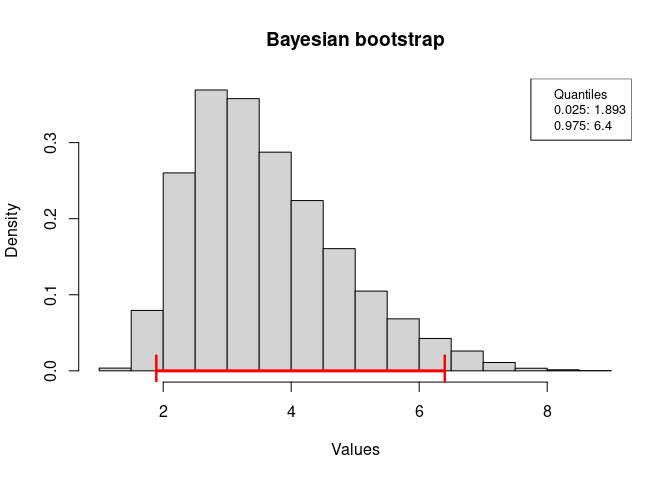
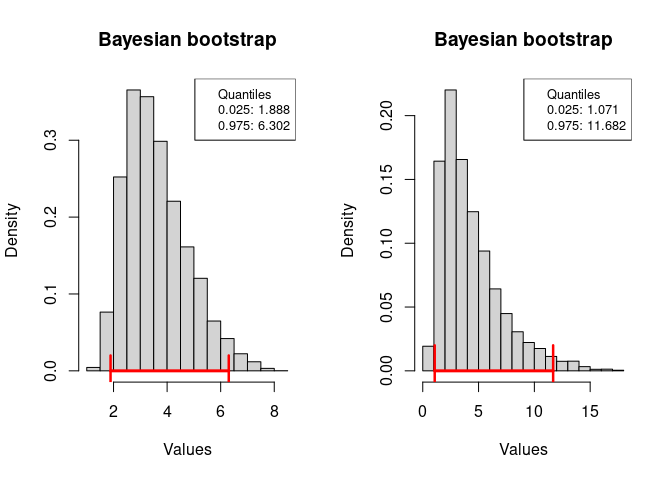
Changed readme

diff --git a/README.md b/README.md
@@ -1,34 +1,59 @@
 README
 ================
-2023-12-23
+2023-12-25
 
 This package provides a function to perform Bayesian bootstrap for a
-given statistic. The function is based on the algorithm described by
-Rubin (1981), <https://www.jstor.org/stable/2240875>.
+given statistic on a given data set. The function is based on the
+algorithm described by Rubin (1981),
+<https://www.jstor.org/stable/2240875>.
+
+Bayesian bootstrap uses Dirichlet distribution (or some other way) to
+generate real valued weights summing up to $n$ – the length of the data
+– for each observation in the data set for $b$ times. For each bootstrap
+sample $j \in b$, the statistic of interest is calculated on the
+weighted data.
 
 ## 1. Installation
 
+Installation requires the “devtools” package to be installed.
+
     devtools::install_github("rajalah71/bayesboot")
+
+Once installed, the package can be loaded using the following command.
 
 ``` r
 library(bayesboot)
-#par(mfrow = c(2,1))
 ```
 
 ## 2. Examples
 
+We can use this function to calculate the Bayesian bootstrap for any
+statistic. For example, we can calculate the Bayesian bootstrap
+posterior distribution for the mean and standard deviation of a given
+data set.
+
+Let’s try it on a small integer valued data set.
+
 ``` r
-# Integer data
+par(mfrow = c(1,2))
+# Integer data means
 data = c(1,2,2,4,9)
 boot_means = bayesboot(data, mean, b = 10000, plot = TRUE)
+# Standard deviation for the same data
+boot_sd = bayesboot(data, sd, b = 10000, plot = TRUE)
 ```
 
 ![](README_files/figure-gfm/unnamed-chunk-2-1.png)<!-- -->
 
+Let us next try it on a binary data set.
+
 ``` r
-# Binary data
+par(mfrow = c(1,2))
+# Binary data means
 data = c(0,1,1,0,1,1,1,0,1,1,1,1,1,1,1,1,1,1,0,1)
 boot_means = bayesboot(data, f = mean, b = 10000, plot = TRUE)
+#Binary data standard deviations
+boot_sd = bayesboot(data, f = sd, b = 10000, plot = TRUE)
 ```
 
 ![](README_files/figure-gfm/unnamed-chunk-3-1.png)<!-- -->
